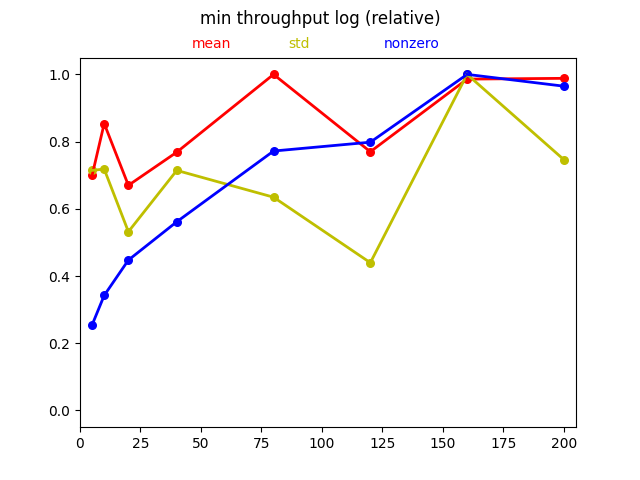
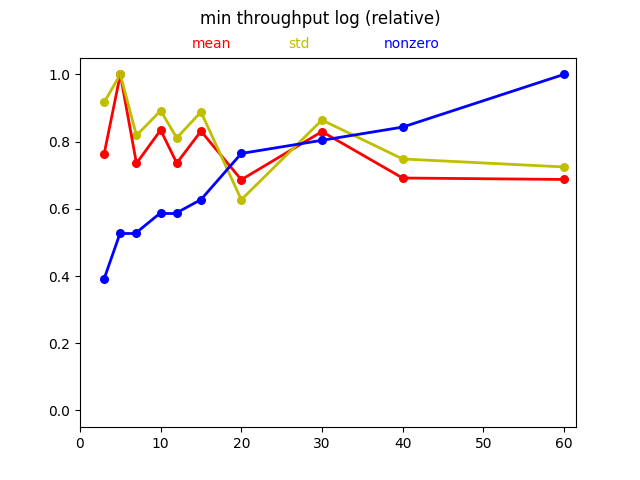
add: throughput test helper tool

diff --git a/WPCN_UAV/2021_11_Multi_UAV/throughputTest_at_once.py b/WPCN_UAV/2021_11_Multi_UAV/throughputTest_at_once.py
@@ -1,0 +1,77 @@
+import throughputTest as TT
+import helper as h_
+import numpy as np
+import pandas as pd
+
+if __name__ == '__main__':
+
+    # ignore warnings
+    import warnings
+    warnings.filterwarnings('ignore')
+    warnings.filterwarnings('always')
+    warnings.simplefilter('ignore')
+
+    # load settings
+    paperArgs = h_.loadSettings({'fc':'float', 'ng':'float', 'B':'float', 'o2':'float',
+                                'b1':'float', 'b2':'float',
+                                'alphaP':'float', 'alphaL':'float',
+                                'mu1':'float', 'mu2':'float',
+                                's':'float', 'PD':'float', 'PU':'float',
+                                'width':'float', 'height':'float',
+                                'M':'int', 'L':'int', 'devices':'int', 'T':'float', 'N':'int', 'H':'float',
+                                'iters':'int'})
+
+    fc = paperArgs['fc']
+    ng = paperArgs['ng']
+    B = paperArgs['B']
+    o2 = paperArgs['o2']
+    b1 = paperArgs['b1']
+    b2 = paperArgs['b2']
+    alphaP = paperArgs['alphaP']
+    alphaL = paperArgs['alphaL']
+    mu1 = paperArgs['mu1']
+    mu2 = paperArgs['mu2']
+    s = paperArgs['s']
+    PU = paperArgs['PU']
+    width = paperArgs['width']
+    height = paperArgs['height']
+    M = paperArgs['M']
+    L = paperArgs['L']
+    devices = paperArgs['devices']
+    T = paperArgs['T']
+    N = paperArgs['N']
+    H = paperArgs['H']
+    iters = paperArgs['iters']
+
+    # manual setting: iters, L, devices and N
+    iters   = 30
+    L       = 3
+    devices = 10
+    Ns      = [3, 5, 7, 10, 12, 15, 20, 30, 40, 60, 80, 100, 120, 150, 200]
+
+    # execute
+    for N in Ns:
+
+        # list of min throughputs
+        minThroughputList = []
+
+        # execute THROUGHPUT TEST
+        for iterationCount in range(iters):
+            TT.throughputTest(M, T, N, L, devices, width, height, H,
+                              ng, fc, B, o2, b1, b2, alphaP, None, mu1, mu2, s, None, PU,
+                              iterationCount, minThroughputList)
+
+        # save min throughput list as *.csv file
+        minThroughputList = pd.DataFrame(np.array(minThroughputList))
+        minThroughputList.to_csv('minThroughputList_iter_' + ('%04d' % iters) + '_L_' + ('%04d' % L) +
+                                 '_devs_' + ('%04d' % devices) + '_N_' + ('%04d' % N) + '.csv')
+
+        # save min throughput list as *.txt file
+        arr = np.array(minThroughputList)[:, 1:]
+        note = 'mean: ' + str(np.mean(arr)) + ', std: ' + str(np.std(arr)) + ', nonzero: ' + str(np.count_nonzero(arr))
+
+        noteFile = open('minThroughputList_iter_' + ('%04d' % iters) + '_L_' + ('%04d' % L) +
+                                 '_devs_' + ('%04d' % devices) + '_N_' + ('%04d' % N) + '.txt', 'w')
+        
+        noteFile.write(note)
+        noteFile.close()
